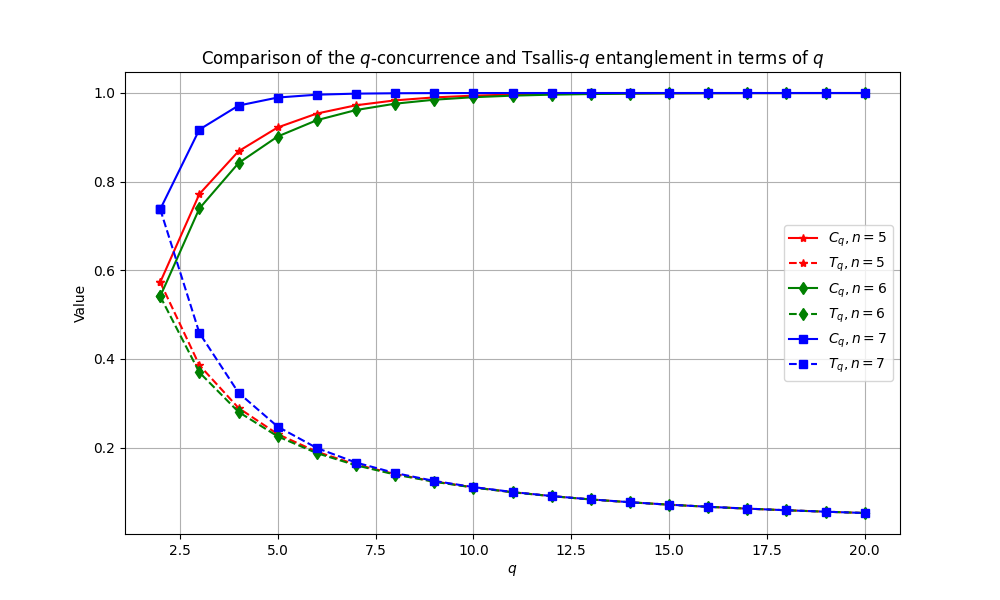
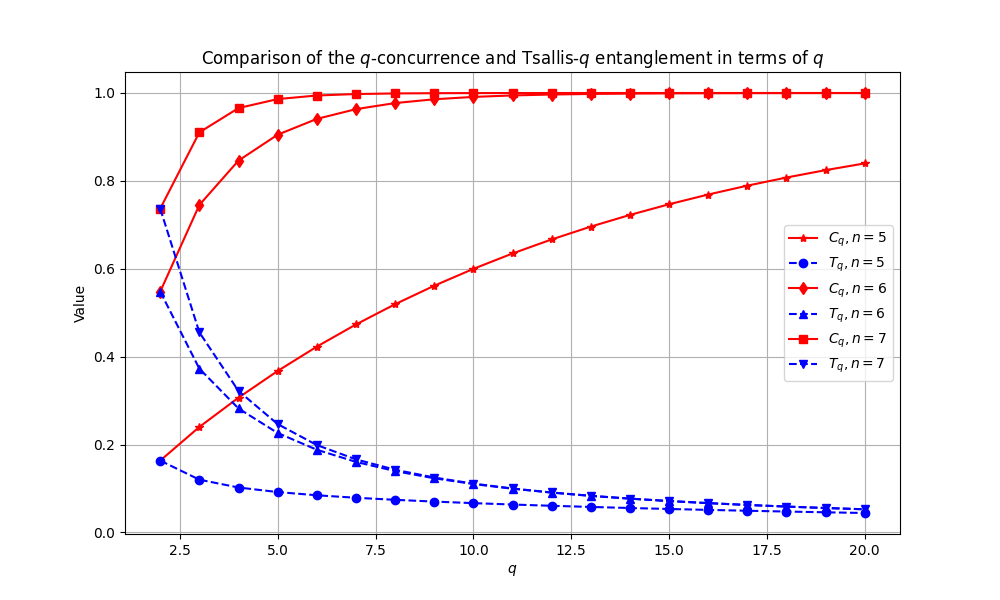
Modify plot 5

diff --git a/app/main.py b/app/main.py
@@ -297,14 +297,16 @@ for n in n_values:
         T_q_results[n].append(tsallis_q_entanglement(rho_A, q))
 
 plt.figure(figsize=(10, 6))
-markers = ['*', 'd', 's']
-colors = ['r', 'g', 'b']
-lines = ['-', '--']
-labels = [r'$C_q, n=5$', r'$T_q, n=5$', r'$C_q, n=6$', r'$T_q, n=6$', r'$C_q, n=7$', r'$T_q, n=7$']
+markers_cq = ['*', 'd', 's']
+markers_tq = ['o', '^', 'v']
+colors_cq = 'r'
+colors_tq = 'b'
+labels_cq = [r'$C_q, n=5$', r'$C_q, n=6$', r'$C_q, n=7$']
+labels_tq = [r'$T_q, n=5$', r'$T_q, n=6$', r'$T_q, n=7$']
 
 for i, n in enumerate(n_values):
-    plt.plot(q_values, C_q_results[n], color=colors[i], marker=markers[i], linestyle='-', label=labels[2*i])
-    plt.plot(q_values, T_q_results[n], color=colors[i], marker=markers[i], linestyle='--', label=labels[2*i+1])
+    plt.plot(q_values, C_q_results[n], color=colors_cq, marker=markers_cq[i], linestyle='-', label=labels_cq[i])
+    plt.plot(q_values, T_q_results[n], color=colors_tq, marker=markers_tq[i], linestyle='--', label=labels_tq[i])
 
 plt.xlabel(r'$q$')
 plt.ylabel('Value')
